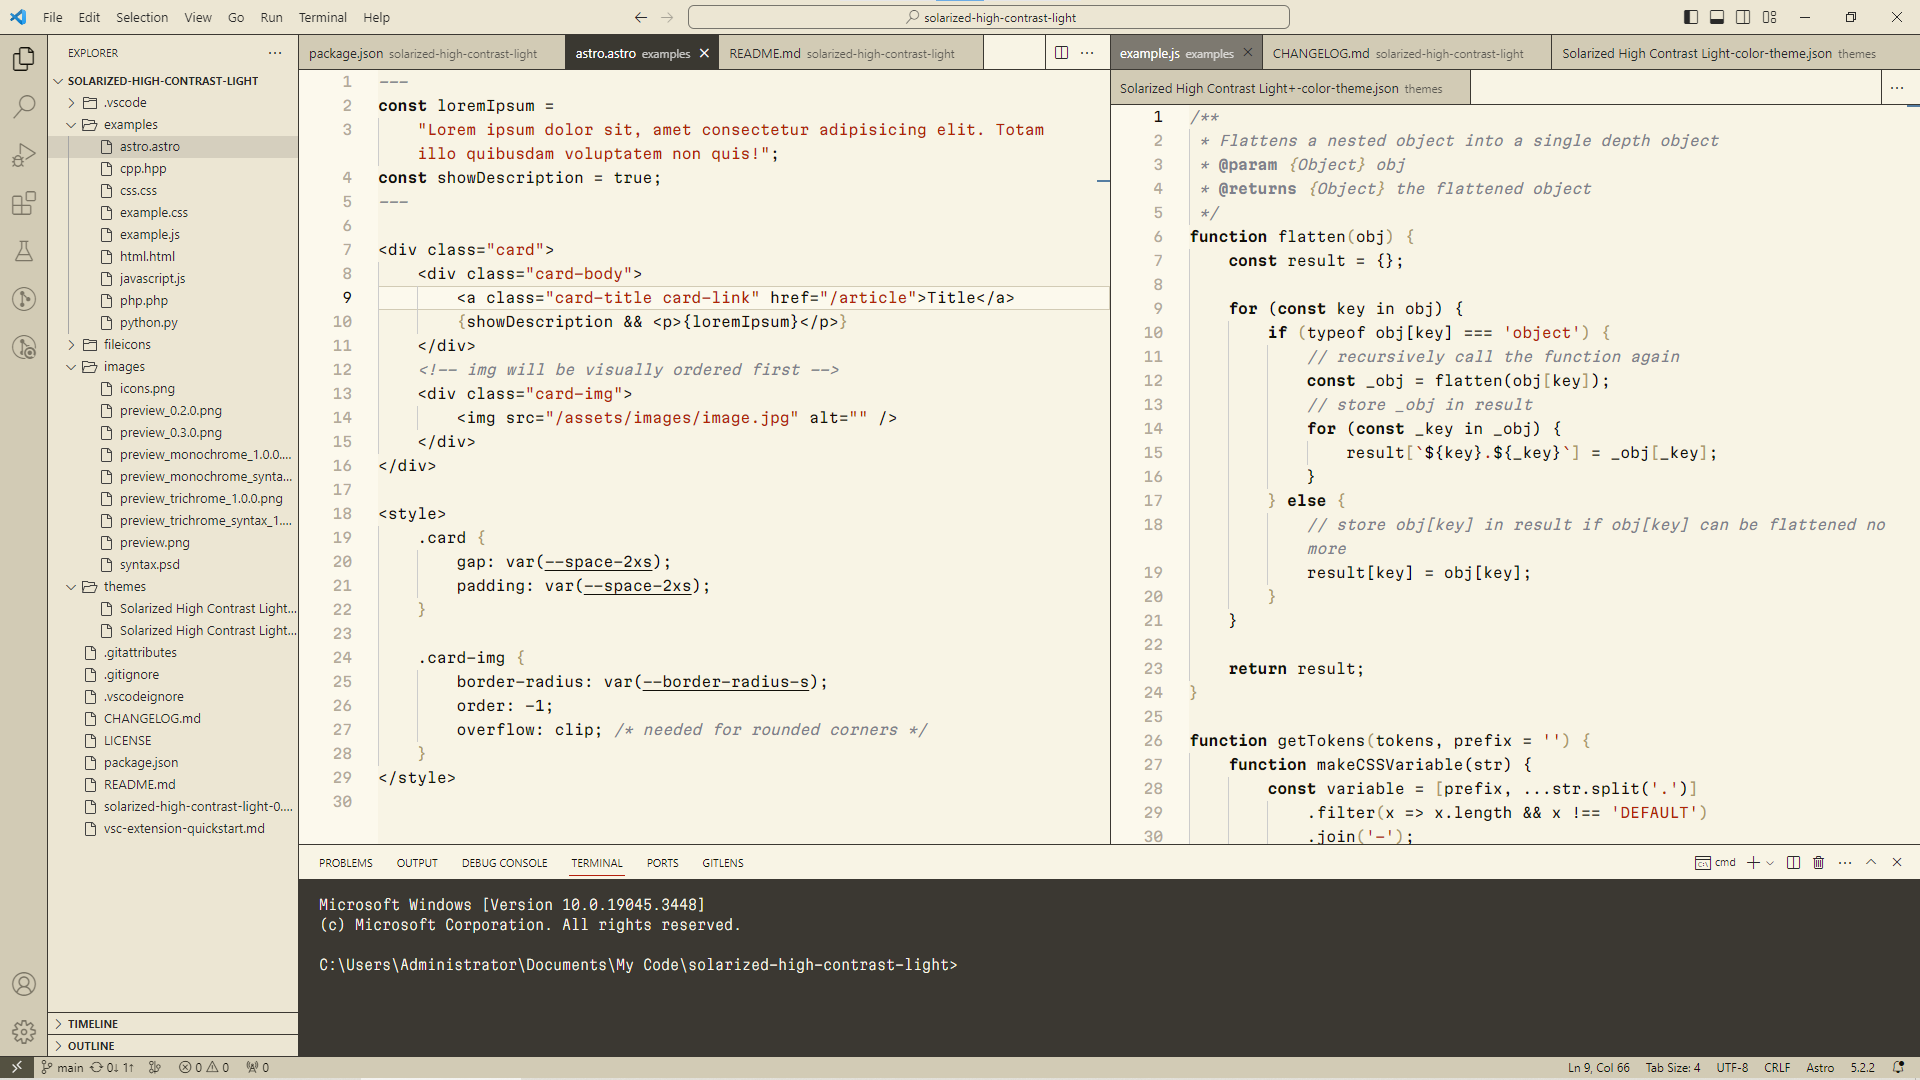
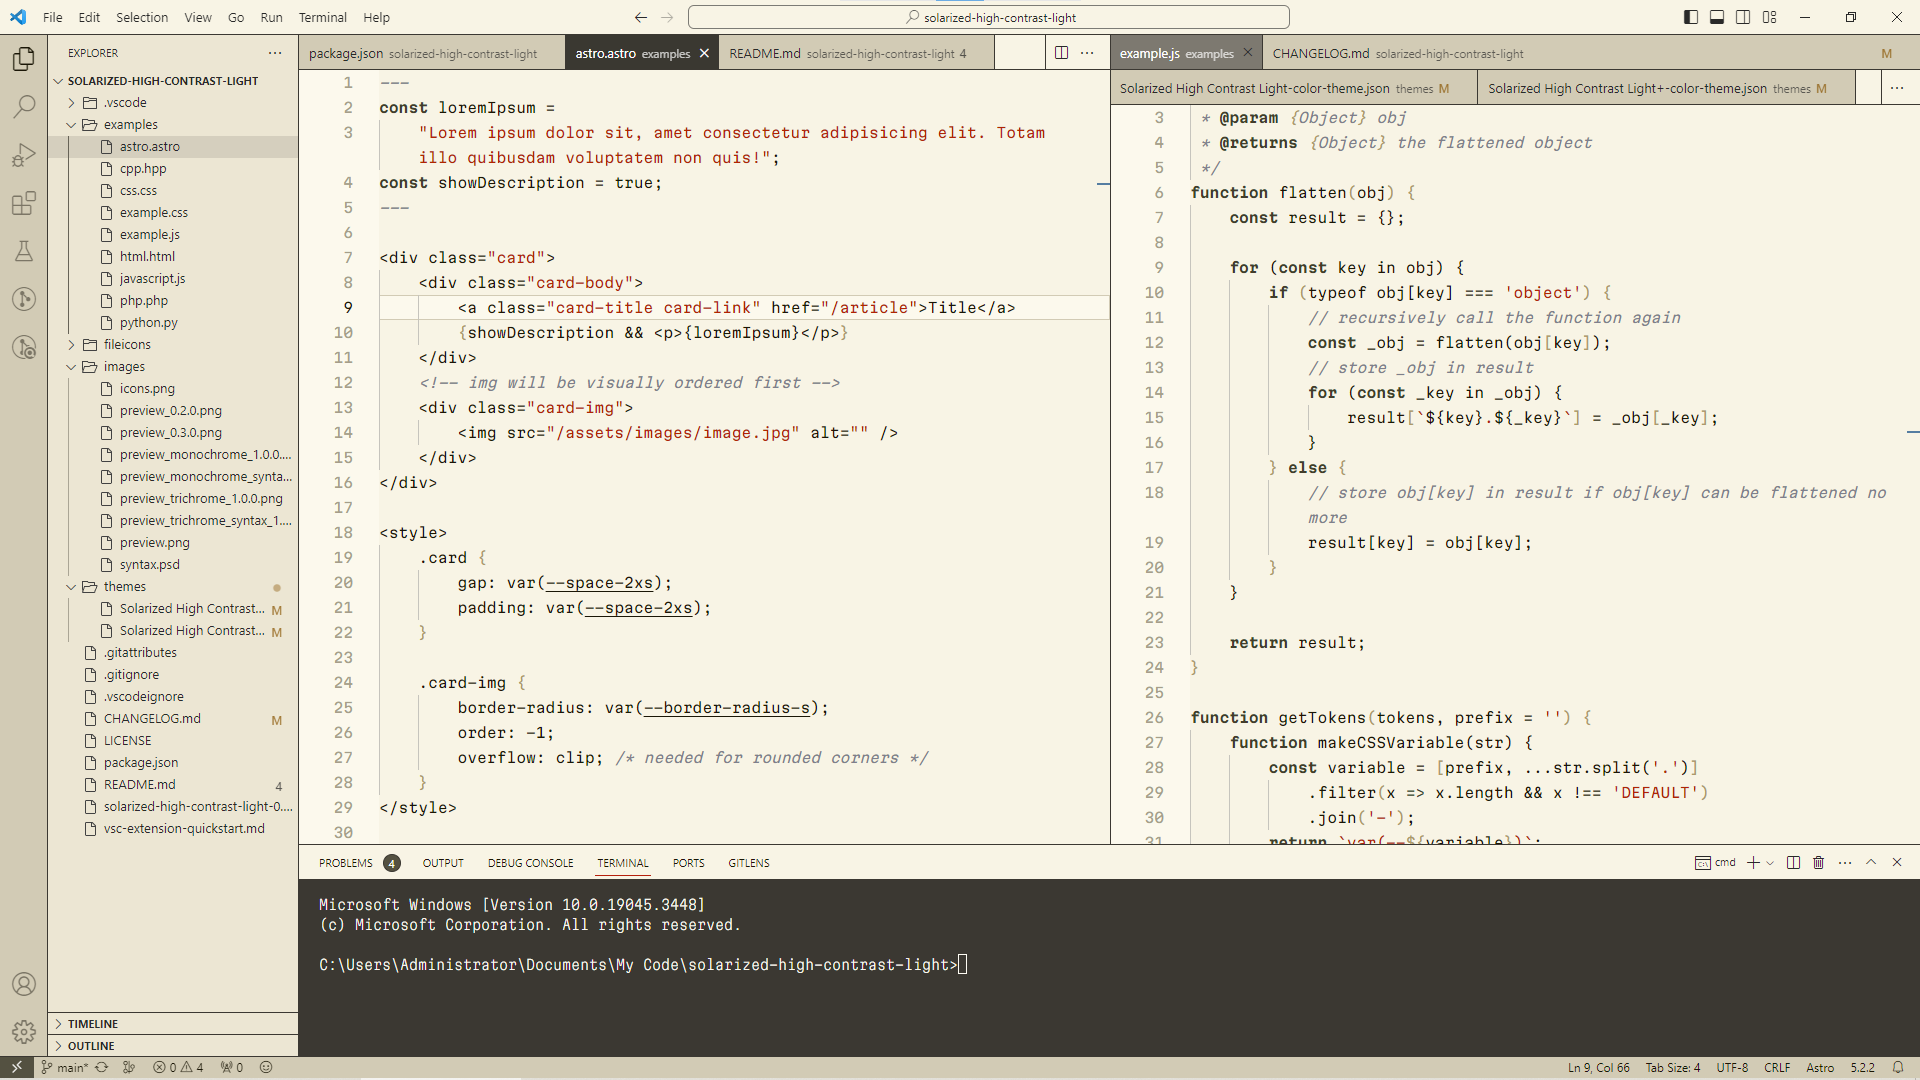
revert titlebar color and reduce bold contrast

diff --git a/CHANGELOG.md b/CHANGELOG.md
@@ -3,17 +3,17 @@ All notable changes to the "solarized-high-contrast-light" extension will be doc
 
 Check [Keep a Changelog](http://keepachangelog.com/) for recommendations on how to structure this file.
 
-## Unreleased
+## 1.0.0 - 2023-10-01
 ### Added
-- **New theme with 3-color syntax highlighting palette**
-- Editor gutter background color
+- **New theme: Solarized High Contrast Light+**
+- Background color behind line numbers and sticky scroll
 
 ### Changed
-- Comments have increased contrast (55.6 Lc → 60.3 Lc)
+- [Solarized High Contrast Light] Increased contrast of comments (55.6 Lc → 60.3 Lc)
+- Reduced contrast of bold text (99.7 Lc → 88.5 Lc)
 - CSS variables are underlined instead of italicized
 - Invalid syntax is bolded and italicized
 - Text and interface colors have been adjusted to a warmer hue
-- Titlebar is darker
 
 ## 0.4.0 - 2023-01-12
 ### Added
